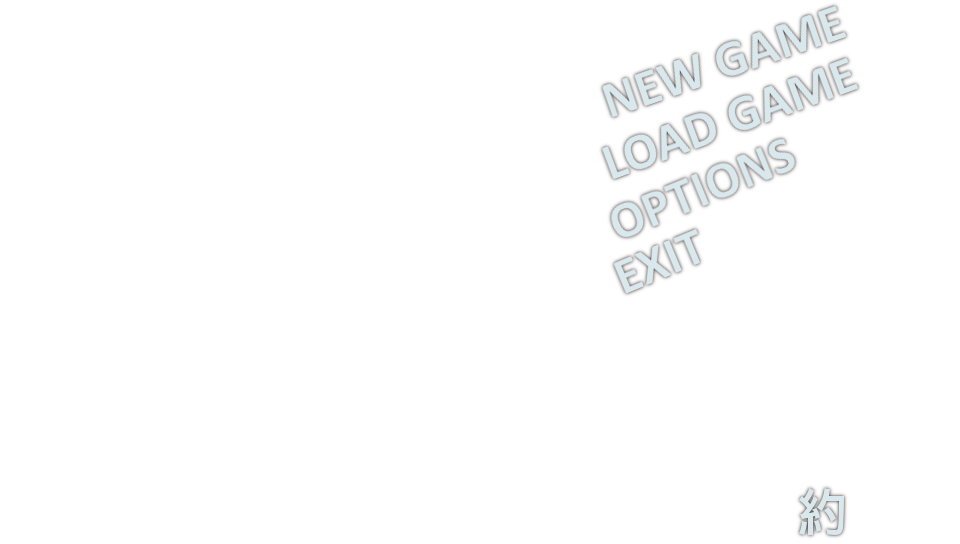
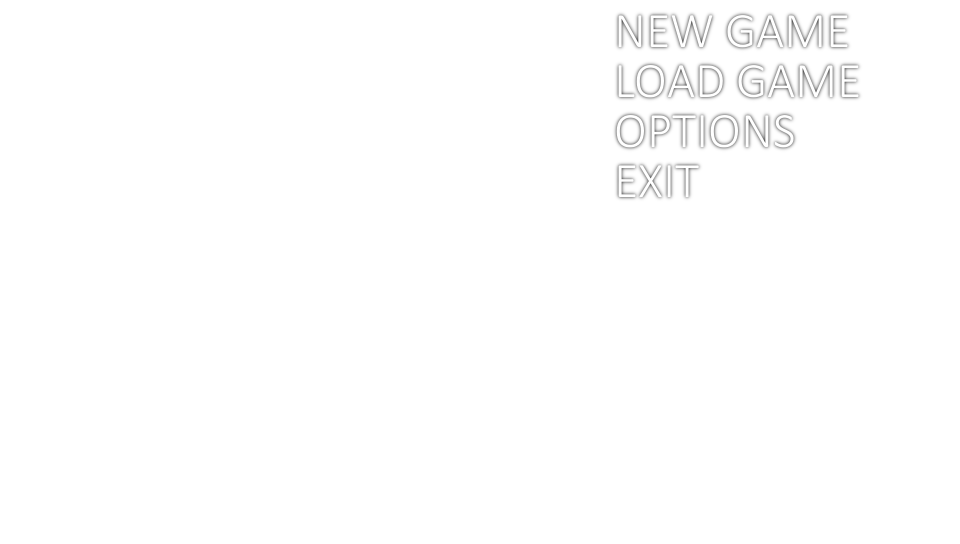
update titlescreen

Changed region(s): [[0.625, 0.0, 0.9062, 0.5312], [0.8125, 0.875, 0.9062, 1.0]]

diff --git a/app/src/game/titlescreen/entities/titlescreen-selector-entity.h b/app/src/game/titlescreen/entities/titlescreen-selector-entity.h
@@ -17,10 +17,10 @@ class TitlescreenSelectorEntity {
         SceCtrlData pad;
         bool button_is_pressed = false;
         int positions [4][2] = {
-            {557, -22},
-            {557, 38},
-            {557, 96},
-            {557, 153}
+            {0, 0},
+            {0, 51},
+            {0, 98},
+            {0, 150}
         };
         int index = 0;
     public:

diff --git a/app/src/game/atlas/atlas.h b/app/src/game/atlas/atlas.h
@@ -1,0 +1,9 @@
+#pragma once
+
+class Atlas {
+    private:
+        bool inMainMenu = true;
+    public:
+        void init();
+        bool isInMainMenu();
+};

diff --git a/app/src/game/atlas/atlas.cpp b/app/src/game/atlas/atlas.cpp
@@ -1,0 +1,9 @@
+#include "atlas.h"
+
+void Atlas::init() {
+
+}
+
+bool Atlas::isInMainMenu() {
+    return inMainMenu;
+}
